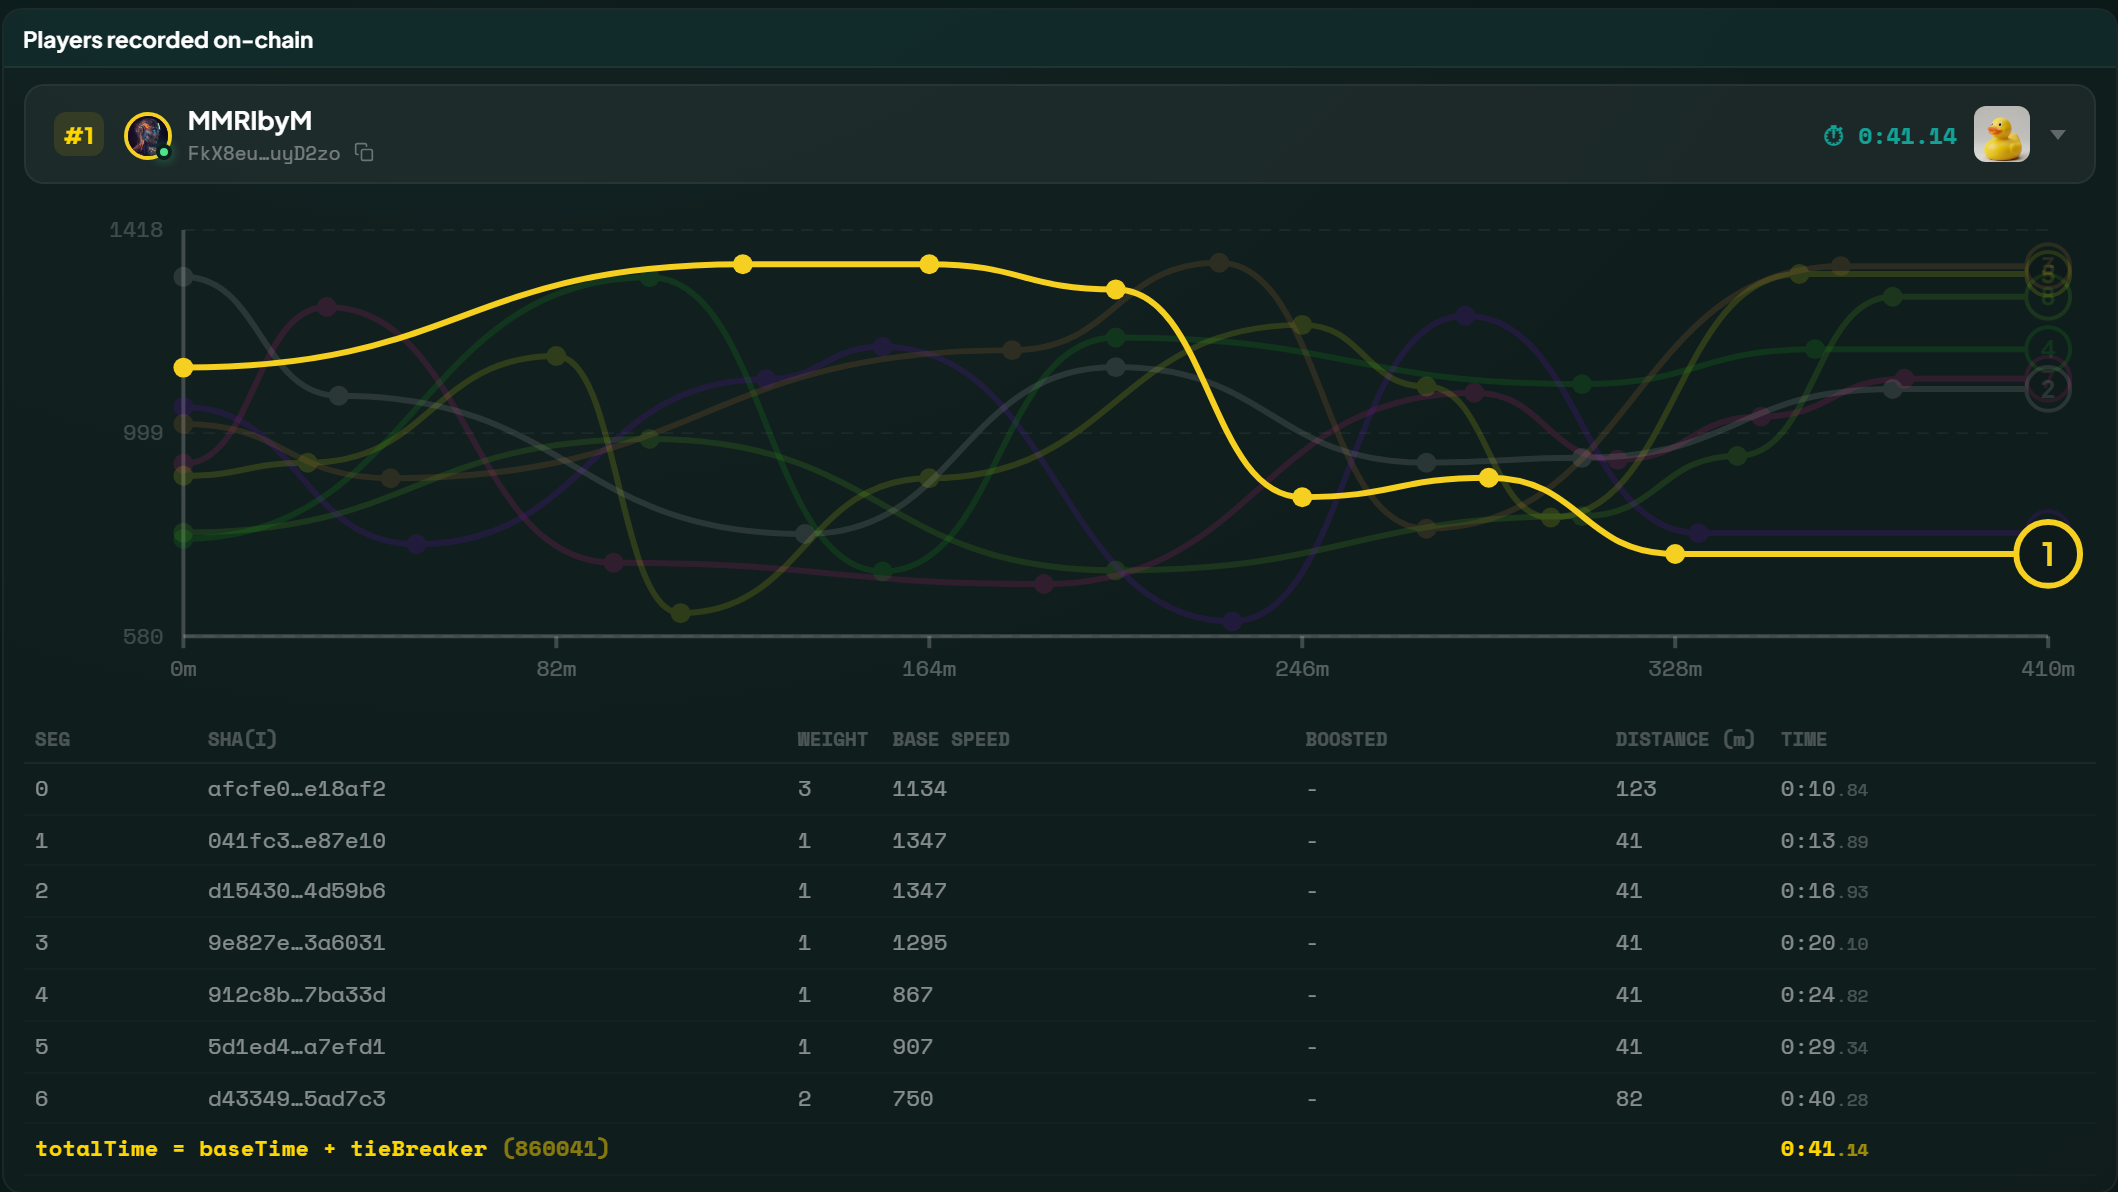
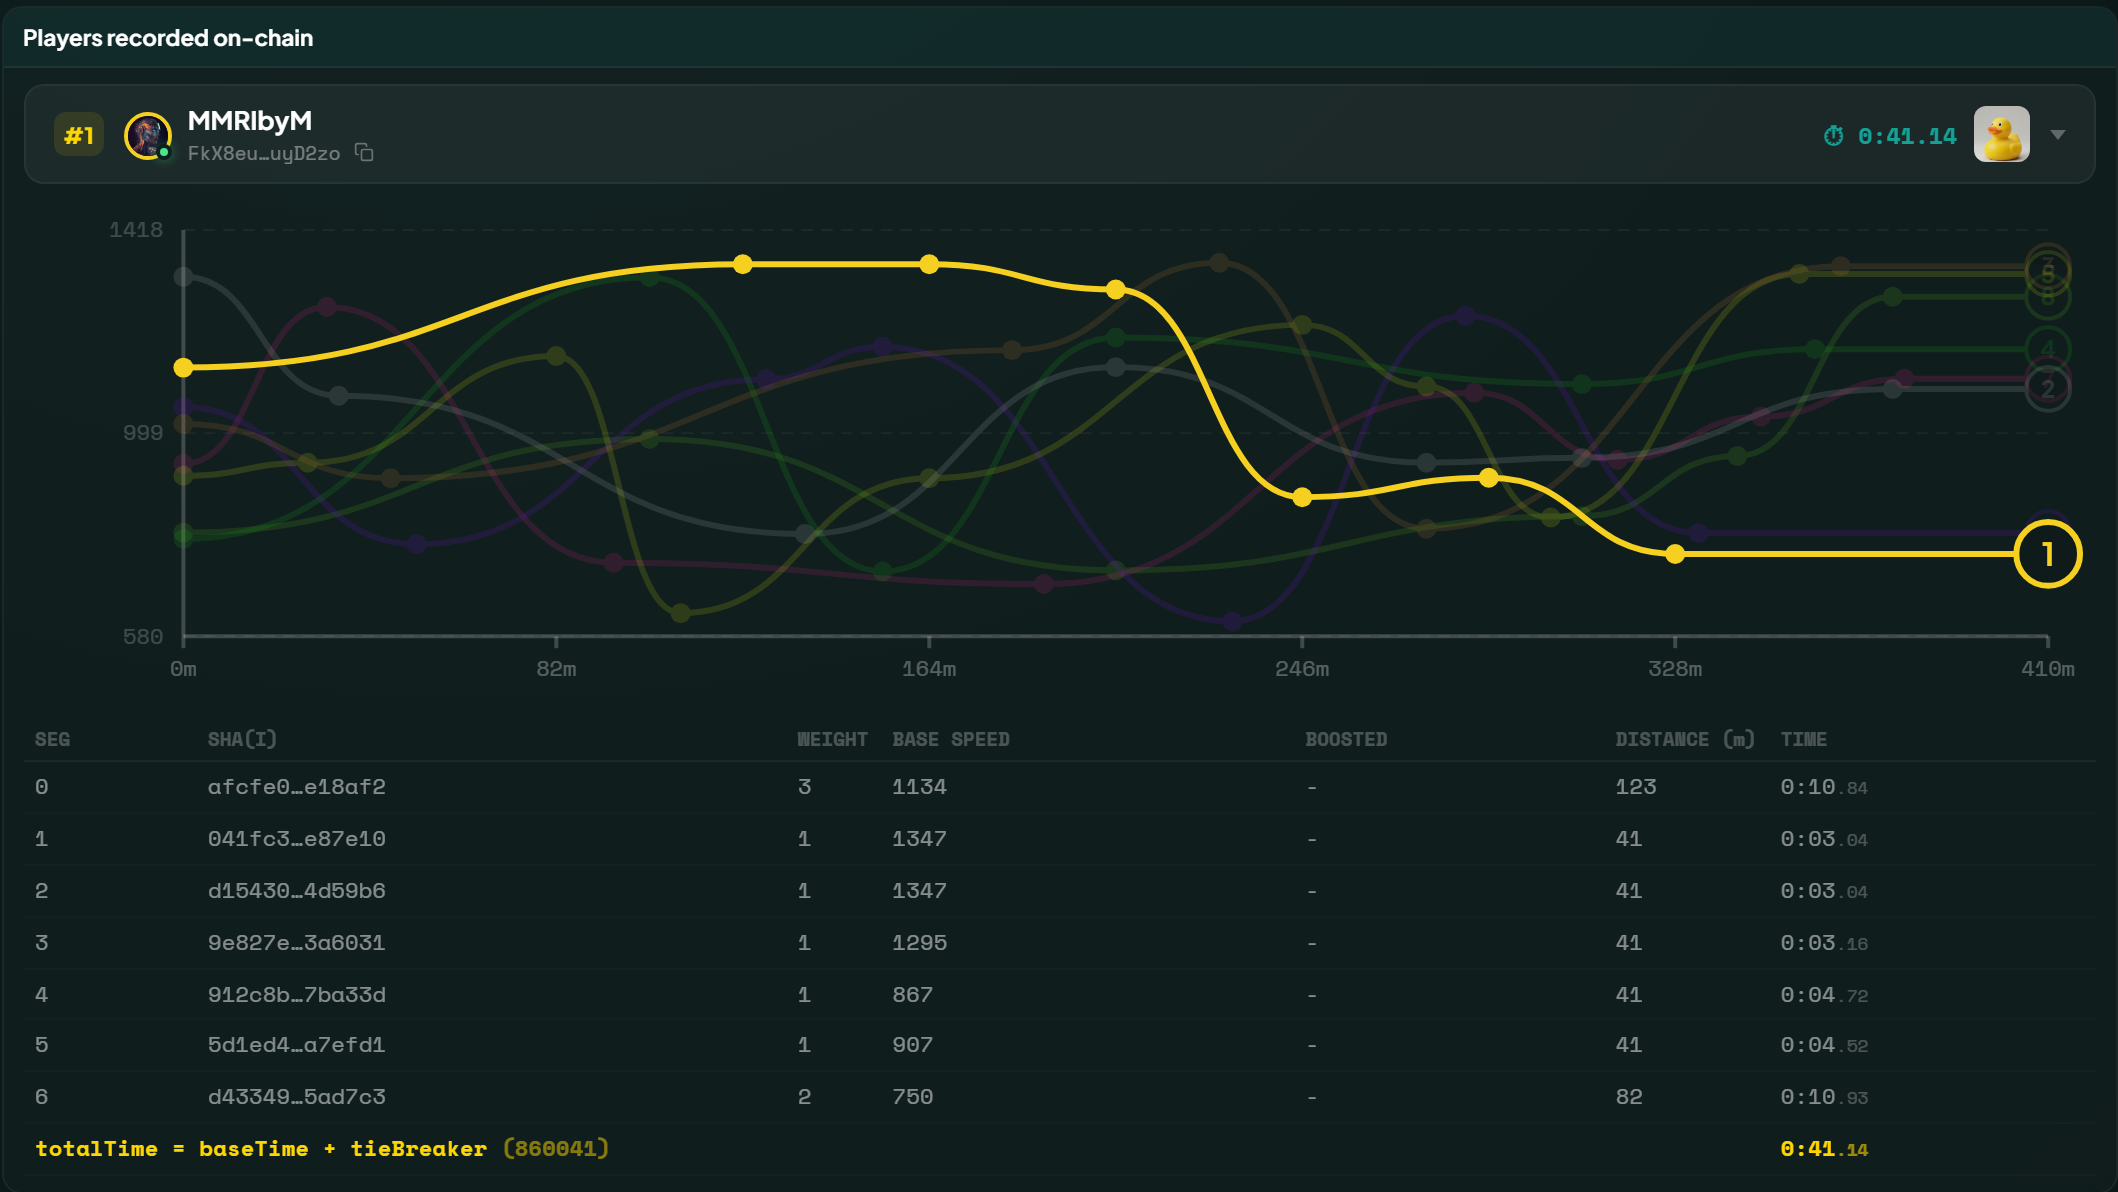
GITBOOK-43.12: No subject

diff --git a/docs/trust/verifying-a-race.md b/docs/trust/verifying-a-race.md
@@ -39,6 +39,22 @@ The race's own modal keeps three panels that save you the lookups: **Race info**
 {% endcolumn %}
 {% endcolumns %}
 
+Open any racer in that list and the working behind their time unfolds: every segment with the hash it came from, its weight, the speed and distance it gave, and the time that segment took. They add up to the finish time the chain recorded.
+
+{% columns %}
+{% column width="70%" %}
+
+<figure><img src="../../.gitbook/assets/trust/app-verify-timings-desktop.png" alt="The per segment table for one racer: hash, weight, speed, distance and the time each segment took, under the field's speed curves"><figcaption><p>Every segment of one racer, and the total they add up to.</p></figcaption></figure>
+
+{% endcolumn %}
+
+{% column width="30%" %}
+
+<figure><img src="../../.gitbook/assets/trust/app-verify-timings-mobile.png" alt="The per segment table for one racer on a phone, scrolled sideways to its weight, speed, distance and time columns"><figcaption><p>On a phone</p></figcaption></figure>
+
+{% endcolumn %}
+{% endcolumns %}
+
 {% hint style="info" %}
 That screen is still the platform telling you what happened, which is why the rest of this page exists. Everything it shows can be checked against the chain by somebody who does not trust it, and the two should agree exactly.
 {% endhint %}

diff --git a/.claude/docs/screenshots.md b/.claude/docs/screenshots.md
@@ -321,6 +321,7 @@ still worth having: it is where most readers will actually check a race.
 | Shot                                      | Page                                         | Shows                                                                 |
 | ----------------------------------------- | -------------------------------------------- | --------------------------------------------------------------------- |
 | `app-verify-fairness`                     | `trust/verifying-a-race.md`                  | The verification screen: seed, formula and recomputed times           |
+| `app-verify-timings`                      | `trust/verifying-a-race.md`                  | One racer's segment table: hash, weight, speed, distance, time        |
 | `app-verify-entry` **(banner)**           | `trust/verifying-a-race.md`                  | A finished race's Verify fairness panel: the seed and the Verify link |
 | `app-verification-tab`                    | `trust/verification.md`                      | The verification tab with the enabled providers                       |
 | `app-verified-badge` **(banner)**         | `trust/verification.md`                      | A lobby row with the green verified dot on the avatar                 |
